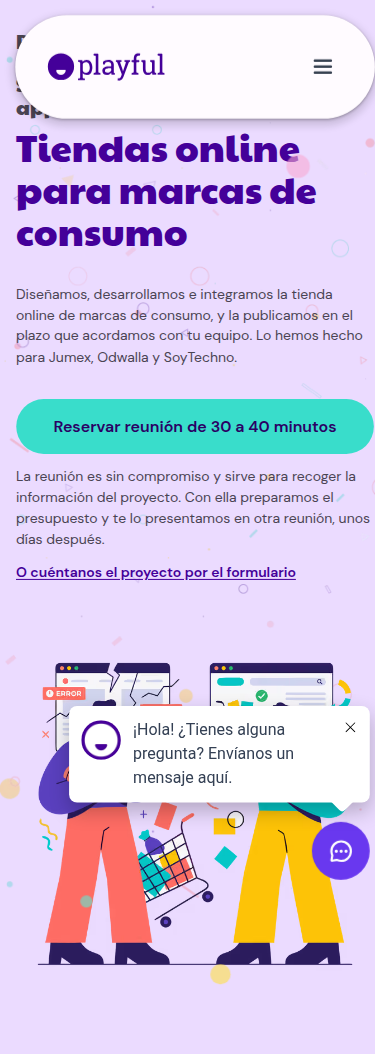
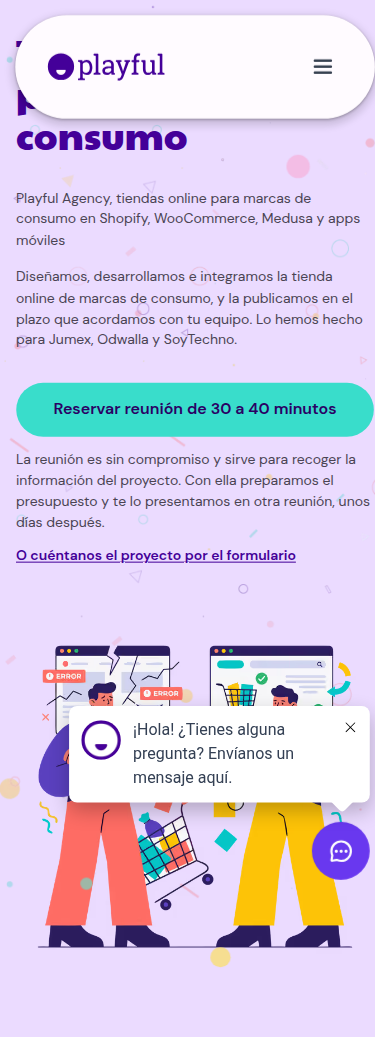
fix(web): plataformas del hero bajo el H1, sin reescribir el copy
Mueve el antetítulo aprobado (Shopify, WooCommerce, Medusa) al primer párrafo del hero, el mismo hueco que en /agencia-shopify.

diff --git a/app/page.tsx b/app/page.tsx
@@ -101,13 +101,13 @@ async function HomeContent() {
             {/* Left Content */}
             <div className="space-y-8">
               <div className="space-y-2">
-                <p className="playful-miga-pan">{HOME_HERO.antetitulo}</p>
                 <h1 className="playful-h1">
                   {HOME_HERO.h1}
                 </h1>
               </div>
 
               <div className="space-y-4 text-purple-800">
+                <p className="playful-contenido-p">{HOME_HERO.antetitulo}</p>
                 <p className="playful-contenido-p">{HOME_HERO.subtitulo}</p>
               </div>
 
